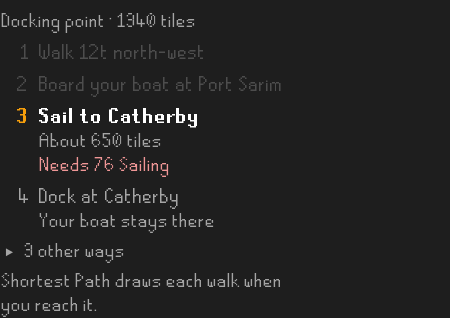
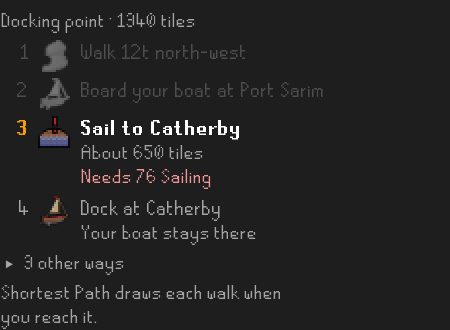
Show the runs and steps to scan on the Hub page
Seven of the Hub page's pictures show a step or a run, and all seven are painted again: Home's
route, the Quest Helper step, the farm run, the sea charting run, the voyage, the port tasks and
the Stars tab. The page says a walk shows a boot and a sail a boat, and that a run has a bar.

The renderer needed three things to paint them. The three sprites are ones the website keeps no
copy of, so they are kept beside it as the game cache holds them. The voyage's scene built its
steps with no sprites, which was true until a step was drawn by its kind. And the Quest Helper
step's picture was a scratch painter's; its scene is the renderer's own now, so the next change
to a step can paint it with the rest.

The layout notes say what changed and why, and the live checks ask for the three sprites, the bar
and a port stop's sail to be looked at in a client, where none has been seen.

diff --git a/docs/review-evidence/sidebar-polish-2026-10-29/SidebarPolishShot.java b/docs/review-evidence/sidebar-polish-2026-10-29/SidebarPolishShot.java
@@ -71,7 +71,7 @@ public class SidebarPolishShot
 	static final List<String> STATES = Arrays.asList("fresh", "fresh-log", "connect", "home", "route", "group", "settings", "settings-closed",
 		"stars", "stars-filters", "stars-route", "stars-pinned", "stars-busy", "stars-busy-picked", "stars-busy-open", "stars-busy-ways", "search", "search-whip", "search-whip-card", "death", "meetup", "dropluck", "dropluck-card", "status",
 		"farm", "farm-card", "farm-bring", "farm-count", "slayer", "slayer-card", "slayer-open", "slayer-expanded", "slayer-blocked",
-		"port-tasks", "port-tasks-card", "port-tasks-unread", "port-run", "port-run-changed", "chart-run", "tasks", "tasks-folded");
+		"port-tasks", "port-tasks-card", "port-tasks-unread", "port-run", "port-run-changed", "chart-run", "quest-route", "tasks", "tasks-folded");
 
 	static HarnessGame game;
 
@@ -92,7 +92,8 @@ public class SidebarPolishShot
 				? (JComponent) get(panel[0], "searchPanel") : state.equals("farm-card") || state.equals("farm-bring") || state.equals("farm-count")
 				|| state.equals("chart-run")
 				? (JComponent) get(panel[0], "farmRunPanel") : state.equals("slayer-card") || state.equals("slayer-open")
-				? (JComponent) get(panel[0], "slayerPanel") : state.equals("slayer-blocked")
+				? (JComponent) get(panel[0], "slayerPanel") : state.equals("quest-route")
+				? (JComponent) get(get(panel[0], "nowCards"), "destinationSlot") : state.equals("slayer-blocked")
 				? (JComponent) get(panel[0], "slayerPanel") : state.equals("port-tasks-card") || state.equals("port-tasks-unread") || state.startsWith("port-run")
 				? (JComponent) get(panel[0], "portTasksPanel") : panel[0], args[0] + "/" + state + ".png")));
 		}
@@ -564,6 +565,11 @@ public class SidebarPolishShot
 
 	static void after(String state, MapCompanionPanel panel) throws Exception
 	{
+		if (state.equals("quest-route"))
+		{
+			questRouted(panel);
+			refresh(panel);
+		}
 		if (state.equals("route"))
 		{
 			/* Each other way opens with its teleport's picture. */
@@ -718,6 +724,29 @@ public class SidebarPolishShot
 	 * The picked star's Route, answered, by RoutePress's own steps for an answer: the star pinned as this
 	 * client's destination with its way, followed from the press, as a pressed Route always is.
 	 */
+	/**
+	 * Home after Route on Quest Helper's step, as the press's answer leaves it: the step pinned at
+	 * Lumbridge Castle's bank, the contract's own route for the way there, and the quest-start star
+	 * the press draws beside the card's name. Quest Helper has moved on by the time of the picture,
+	 * so Reroute waits. The press itself asks the map, which a renderer has none of.
+	 */
+	static void questRouted(MapCompanionPanel panel) throws Exception
+	{
+		Object cards = get(panel, "nowCards");
+		GameSprites sprites = (GameSprites) get(cards, "sprites");
+		RoutePress press = (RoutePress) get(cards, "routePress");
+		WorldPoint step = new WorldPoint(3208, 3220, 2);
+		RoutePress.Target target = RoutePress.Target.tile("quest" + step, step, Words.of("now.questStep"), null, null)
+			.showing((label, box) -> sprites.sprite(label, net.runelite.api.gameval.SpriteID.Mapfunction.QUEST_START, 15));
+		RelayResponse.Destination answer = RoutePress.destination(target, null, route());
+		DestinationState destinations = (DestinationState) get(panel, "destinationState");
+		destinations.selectLocal(answer);
+		((DestinationRoute) get(cards, "destinationRoute")).adoptPressed(answer);
+		java.lang.reflect.Constructor<?> shown = Class.forName("com.pbolduc.mapcompanion.RoutePress$Shown").getDeclaredConstructors()[0];
+		shown.setAccessible(true);
+		set(press, "shown", shown.newInstance(DestinationRoute.keyOf(answer), get(target, "picture"), destinations.generation()));
+	}
+
 	static void starRouted(MapCompanionPanel panel, StarsClient client) throws Exception
 	{
 		StarsModel.Star star = client.model.find(client.model.selected);

diff --git a/docs/review-evidence/sailing-voyage-2026-11-01/VoyageShot.java b/docs/review-evidence/sailing-voyage-2026-11-01/VoyageShot.java
@@ -58,27 +58,46 @@ public class VoyageShot
 		Map<Integer, String> moored = new HashMap<>();
 		moored.put(1, "Port Sarim");
 		String out = args[0];
+		/* Built first and painted after: a sprite lands on its label a turn of the event queue later. */
+		Map<String, RouteStepsView> shots = new java.util.LinkedHashMap<>();
 		SwingUtilities.invokeAndWait(() ->
 		{
 			try
 			{
-				RouteStepsView view = new RouteStepsView(route::choose);
+				/* With the renderer's sprites, as the sidebar's own card has the client's: a step is drawn by its kind. */
+				GameSprites sprites = com.google.inject.Guice.createInjector(Sprites::bind).getInstance(GameSprites.class);
+				RouteStepsView view = new RouteStepsView(route::choose, sprites);
 				route.advance(new WorldPoint(3051, 3192, 0), new DestinationRoute.Sailing(false, moored));
 				view.show(route.view(), "Shortest Path draws each walk when you reach it.");
-				SidebarPolishShot.shoot(view, out + "/voyage-board.png");
+				shots.put(out + "/voyage-board.png", view);
 				route.advance(new WorldPoint(3051, 3192, 0), new DestinationRoute.Sailing(true, null));
-				view = new RouteStepsView(route::choose);
+				view = new RouteStepsView(route::choose, sprites);
 				view.show(route.view(), "Shortest Path draws each walk when you reach it.");
-				SidebarPolishShot.shoot(view, out + "/voyage-sail.png");
+				shots.put(out + "/voyage-sail.png", view);
 				DestinationRoute moved = new DestinationRoute();
 				moved.sync(destination);
 				moved.choose(3);
 				Map<Integer, String> elsewhere = new HashMap<>();
 				elsewhere.put(1, "Rimmington");
 				moved.advance(new WorldPoint(3100, 3200, 0), new DestinationRoute.Sailing(false, elsewhere));
-				view = new RouteStepsView(moved::choose);
+				view = new RouteStepsView(moved::choose, sprites);
 				view.show(moved.view());
-				SidebarPolishShot.shoot(view, out + "/voyage-moved.png");
+				shots.put(out + "/voyage-moved.png", view);
+			}
+			catch (Exception e)
+			{
+				throw new RuntimeException(e);
+			}
+		});
+		SwingUtilities.invokeAndWait(() -> { });
+		SwingUtilities.invokeAndWait(() ->
+		{
+			try
+			{
+				for (Map.Entry<String, RouteStepsView> shot : shots.entrySet())
+				{
+					SidebarPolishShot.shoot(shot.getValue(), shot.getKey());
+				}
 			}
 			catch (Exception e)
 			{

diff --git a/docs/review-evidence/sidebar-polish-2026-10-29/Sprites.java b/docs/review-evidence/sidebar-polish-2026-10-29/Sprites.java
@@ -98,10 +98,16 @@ final class Sprites
 				 * The combat tab's crossed swords is the one sprite the website keeps under a name of its own.
 				 * It also stands in for the multi-combat zone's swords, which the website has no copy of.
 				 */
-				show(label, read(root, spriteId == net.runelite.api.gameval.SpriteID.SideIcons.COMBAT
+				BufferedImage kept = read(root, spriteId == net.runelite.api.gameval.SpriteID.SideIcons.COMBAT
 					|| spriteId == net.runelite.api.gameval.SpriteID.OVERLAY_MULTIWAY
 					? "osrs-icons/1x/skill-combat.png" : SPELLS.containsKey(spriteId)
-					? "osrs-icons/1x/" + SPELLS.get(spriteId) + ".png" : "osrs-icons/cache/" + spriteId + ".png"), box);
+					? "osrs-icons/1x/" + SPELLS.get(spriteId) + ".png" : "osrs-icons/cache/" + spriteId + ".png");
+				/*
+				 * The walking boot and the two Sailing boats a step is drawn by: sprites the website keeps
+				 * no copy of, so they are kept beside this file, as the game cache holds them.
+				 */
+				show(label, kept != null ? kept
+					: read("docs/review-evidence/sidebar-polish-2026-10-29", "sprites/" + spriteId + ".png"), box);
 			}
 
 			@Override

diff --git a/README.md b/README.md
@@ -15,12 +15,12 @@ quests, route to them, and plan meetups.
 ## Routes in RuneLite
 
 <p>
-  <img src="docs/mockups/sidebar-route.png" width="300" alt="Home in the plugin sidebar with a route to Lumbridge Castle bank: numbered steps, the current one, casting Lumbridge Home Teleport, with its number in amber beside the spell's icon, a ring of dueling as the other way, and Follow, Reroute and Dismiss; under Tasks, the Farm run and Slayer cards">
+  <img src="docs/mockups/sidebar-route.png" width="300" alt="Home in the plugin sidebar with a route to Lumbridge Castle bank: numbered steps, the current one, casting Lumbridge Home Teleport, with its number in amber beside the spell's icon, a walking boot beside each walk, a ring of dueling as the other way, and Follow, Reroute and Dismiss; under Tasks, the Farm run and Slayer cards">
 </p>
 
 Pick a place, a search result or a task, and the sidebar lists the way there step by step: which
 teleport to use, which ride to take, where to walk. A teleport step shows the item or spell, and
-outlines it in your inventory or spellbook while you follow. Each step gets a numbered pin on the
+outlines it in your inventory or spellbook while you follow; a walk shows a boot and a sail a boat. Each step gets a numbered pin on the
 game's world map, and you can right-click that map and choose **Route here** to go anywhere.
 
 Press **Follow** to keep the step you are on in a small box over the game. **Reroute** plans
@@ -31,7 +31,7 @@ diaries, items and unlocks your account has.
 Shortest Path draws the walks.
 
 <p>
-  <img src="docs/mockups/sidebar-quest-step.png" width="205" alt="The Quest Helper step card on Home after Route: 52 tiles, casting Lumbridge Home Teleport, walking to the castle staircase and climbing to the bank, with Pause, Reroute and Dismiss">
+  <img src="docs/mockups/sidebar-quest-step.png" width="225" alt="The Quest Helper step card on Home after Route: 52 tiles, casting Lumbridge Home Teleport, walking to the castle staircase and climbing to the bank, a boot beside each walk, with Pause, Reroute and Dismiss">
 </p>
 
 **Works with Quest Helper.** With Quest Helper's *Use 'Shortest Path' plugin* setting on, Home shows
@@ -62,7 +62,7 @@ The Farm run, Slayer and Port tasks cards each fold away under their heading.
 ## Farm runs in RuneLite
 
 <p>
-  <img src="docs/mockups/sidebar-farm-run.png" width="300" alt="A farm run's card in the sidebar: Before you leave counting one teleport not on you, Falador done and folded to one line, Catherby next with its number in amber and This leg's steps under it, the birdhouse done and the bank visited, and Pause, Reroute and End run">
+  <img src="docs/mockups/sidebar-farm-run.png" width="300" alt="A farm run's card in the sidebar: a bar two thirds full over 2 of 3 tracked done, Before you leave counting one teleport not on you, Falador done and folded to one line, Catherby next with its number in amber and This leg's steps under it, the birdhouse done and the bank visited, and Pause, Reroute and End run">
 </p>
 
 Start a run from **Ready now**, **Birdhouses** or your farming contract, or build one on the
@@ -82,7 +82,7 @@ Each task shows the tool it takes and how far its sail or walk is, with a bar fo
 ## Sailing
 
 <p>
-  <img src="docs/mockups/sidebar-voyage.png" width="300" alt="A voyage in the plugin sidebar: the walk to Port Sarim and boarding your boat done, Sail to Catherby current with its number in amber and its Sailing level marked unmet, then Dock at Catherby">
+  <img src="docs/mockups/sidebar-voyage.png" width="300" alt="A voyage in the plugin sidebar: the walk to Port Sarim and boarding your boat done, Sail to Catherby current with its number in amber and its Sailing level marked unmet, then Dock at Catherby, each step with a boot or a boat beside it">
 </p>
 
 A voyage in your own boat is its own steps, board, sail and dock, starting where your boat is.
@@ -90,16 +90,17 @@ They tick off as you go, and the sail is drawn on the world map. Each of your bo
 the world map at the port where it is moored, with nothing sent and no Connect needed.
 
 <p>
-  <img src="docs/mockups/sidebar-port-tasks.png" width="225" alt="A port-task run in the RuneLite Port tasks card: Port Khazard done and folded to one line, Ardougne next with its crates to deliver and This leg's steps under it, from the walk to the boat to the ledger table, then the osprey hunt and Brimhaven's task board">
+  <img src="docs/mockups/sidebar-port-tasks.png" width="225" alt="A port-task run in the RuneLite Port tasks card: a bar a quarter full over 1 of 4 stops done and 326 tiles left, Port Khazard done and folded to one line, Ardougne next with its crates to deliver and its sail of 108 tiles at the right, This leg's steps under it each with a boot or a boat, from the walk to the boat to the ledger table, then the osprey hunt and Brimhaven's task board with their sails in the same column">
 </p>
 
 Home lists the port tasks you hold, and **Start run** turns them into one trip: every crate in the
-order your hold allows, then each bounty out to its creature and back.
+order your hold allows, then each bounty out to its creature and back. Each stop shows how far its
+sail is, and a bar how much of the run is done.
 
 ## Shooting stars
 
 <p>
-  <img src="docs/mockups/stars-tab-list.png" width="300" alt="The Stars tab: a star at Rimmington mine pinned at the top, its tier in pink and its world as a gold members star and a number, green because you are on it, with its route under it, a Rimmington tablet and a walk, and Reroute and Unpin; then the tier and world filters, and the stars grouped by site, each with its tier in bold in the tier's colour, the world switcher's star beside its world in bold, and its time left, with Data from Star Miners at the foot">
+  <img src="docs/mockups/stars-tab-list.png" width="300" alt="The Stars tab: a star at Rimmington mine pinned at the top, its tier in pink and its world as a gold members star and a number, green because you are on it, with its route under it, a Rimmington tablet and a walk with its boot, and Reroute and Unpin; then the tier and world filters, and the stars grouped by site, each with its tier in bold in the tier's colour, the world switcher's star beside its world in bold, and its time left, with Data from Star Miners at the foot">
 </p>
 
 **Stars** lists active stars by site, world, tier and time left, with a star on the world you

diff --git a/docs/review-evidence/readme-2026-11-02.md b/docs/review-evidence/readme-2026-11-02.md
@@ -226,3 +226,40 @@ card's Route and Pin, the other ways as a table, and a destination taken down on
 with no horizontal overflow and every internal link resolved, from a local conversion of the
 README's Markdown, as on 2 November; the *Shooting stars* section was looked at on the 390px page
 in the dark theme.
+
+## Painted again for the runs and steps to scan, 12 November 2026
+
+*Runs and steps to scan* in `docs/sidebar-layout.md` changed seven pictured surfaces: a step is
+drawn by its kind, every run has the bar, and a port-task run's legs are a column. All seven were
+painted again from their scenes at that change, on Windows with JDK 27.
+
+| Picture | Scene | Painted |
+| --- | --- | --- |
+| `sidebar-route.png` | `route`, Home | 225×648 |
+| `sidebar-quest-step.png` | `quest-route`, the card alone | 225×223 |
+| `sidebar-farm-run.png` | `farm-count`, the card alone | 225×318 |
+| `sidebar-chart-run.png` | `chart-run` with `-Dchart.run=` the kept run | 225×533 |
+| `sidebar-voyage.png` | VoyageShot's `voyage-sail` | 225×165 |
+| `sidebar-port-tasks.png` | `port-run`, the card alone | 225×467 |
+| `stars-tab-list.png` | `stars-route` | 225×643 |
+
+- **The three sprites** a step is drawn by, the minimap's walking boot and the Sailing interface's
+  boat and ship, are ones the website keeps no copy of. They were exported from the game cache the
+  map's tiles are built from and are kept in `sidebar-polish-2026-10-29/sprites/` by sprite id,
+  where the renderer looks after the website's folder. A client draws its own.
+- **`sidebar-quest-step.png`** was a scratch painter's and is the renderer's now, `quest-route`:
+  the press's answer staged as `stars-route` stages a star's, with the quest-start star the press
+  draws beside the name. It is the whole card at 225px, where the scratch painter's was cropped to
+  205, and the README shows it at that width. It says what it said, with a boot beside each walk.
+- **`sidebar-voyage.png`.** `VoyageShot` built its steps with no sprites, which was true of a
+  voyage's steps until a step was drawn by its kind. It now has the renderer's, and paints its
+  three views a turn of the event queue after building them, since a sprite lands on its label then.
+- **`sidebar-port-tasks.png`.** The legs' lengths are the map's: the fixture the two repositories
+  share now carries each leg in numbers.
+- The status dot and the fold marks are this machine's fallback glyphs, as on the other pictures
+  painted here.
+
+Not yet seen in a live client, as `docs/live-checks.md` lists: the three sprites, the bar on a
+farm run and a port-task run, and a port-task stop's sail at the right.
+`readme-phone-preview.mjs` loaded all sixteen of the README's pictures at 320, 390 and 736px in both
+themes with no horizontal overflow and every internal link resolved.

diff --git a/docs/sidebar-layout.md b/docs/sidebar-layout.md
@@ -1163,3 +1163,35 @@ The same eight tasks paint 533px.
   says *1 not on you* would send a player to the bank for nothing.
 - **The Sailing level a task asks for.** The run holds only tasks the player's level allows, so
   the number would be printed on every task it is true of.
+
+## Runs and steps to scan, 12 November 2026
+
+The sea charting run's row, bar and column were asked for every run and for the steps under them.
+
+### A picture on every step
+
+A teleport's step had its item or spell beside it; a walk, a boarding, a sail and a docking were
+words alone, so a leg of *walk, board, sail, dock, walk* was five lines to read. A step the map
+names no picture for is drawn by its kind: the minimap's walking boot for a walk, and from the
+Sailing interface a boat for boarding and docking and a ship at sea for the sail. They are the
+game's own sprites, by the client's constants.
+
+Only the list of steps draws them. A stop's picture in a run and the box over the game stay the
+step's own item or spell, so a leg that starts with a walk still leads with its teleport, and a leg
+that is all walking leads with nothing. The picture's column, kept on every step once one has a
+picture, is now on nearly every route.
+
+### The bar on every run
+
+A farm run said *2 of 3 tracked done* and a port-task run *1 of 4 stops done* in words. Both have
+the charting run's bar over that line, counting what the line counts: the stops something can
+witness, or every stop where nothing can.
+
+### A port-task run's legs in a column
+
+A port-task stop said *Sail from Port Khazard* under its name. The map now sends that leg in
+numbers too, so the stop is the charting run's row: its sail at the right edge, *from Port
+Khazard* under the name, and the count adds the tiles left. Its tasks keep their lines.
+
+A port-task stop has no picture of its own yet. A courier's crate and a bounty's part would be the
+ones, and the map keeps no picture of a cargo crate to check a client's against.

diff --git a/docs/live-checks.md b/docs/live-checks.md
@@ -547,6 +547,12 @@ continuously witnessed empty-to-newly-planted transition mints a stable completi
       moves on. Note how close the boat had to be for each kind of task, above all one on an islet,
       a wreck or the shore, which the map waits for at the nearest water. With Sea charts charted
       off, the picker says to turn on Progress and travel and Start waits.
+- [ ] On any route, a walk step has the minimap's walking boot beside it, and on a voyage Board
+      and Dock have a small boat and Sail a ship at sea. This is the first time a client draws
+      those three sprites here, so say if any comes up empty or as something else. A stop's own
+      picture in a run, and the box over the game, are still a teleport's and never a boot.
+- [ ] On a farm run and a port-task run a bar under the run's name fills as stops are done, and
+      a port-task run's stops have their sail at the right with the tiles left in the count.
 - [ ] On a Sea charting run, each task still ahead has its tool's picture beside it: a spyglass,
       a captain's log, a crowbar, a current duck, a fishbowl helmet or a portable weather station.
       This is the first time a client draws those six items by their ids, so say which, if any,

diff --git a/docs/features.md b/docs/features.md
@@ -77,7 +77,9 @@ Build a run on the website and press **Send run to RuneLite**, or choose a prese
 **Farm run** on Home and press **Start run**;
 the choice steps aside while the run is going, so a stray press cannot replace it.
 The sidebar lists your stops and how to reach each one, with the steps to the next stop under it
-as **This leg**; a finished stop folds to one line. On a Sea charting run each task shows the
+as **This leg**; a finished stop folds to one line. A bar under the run's name shows how much
+of it is done. Each step has a picture: a teleport's item or spell, a boot for a walk, and a boat
+for boarding, sailing and docking. On a Sea charting run each task shows the
 tool it takes, with the length of its sail or walk at the right, and a bar and the tiles left
 under the run's name. **Before you leave** is a bank checklist:
 closed, it counts the teleports it can tell you are not carrying, and in the bank it outlines them.
